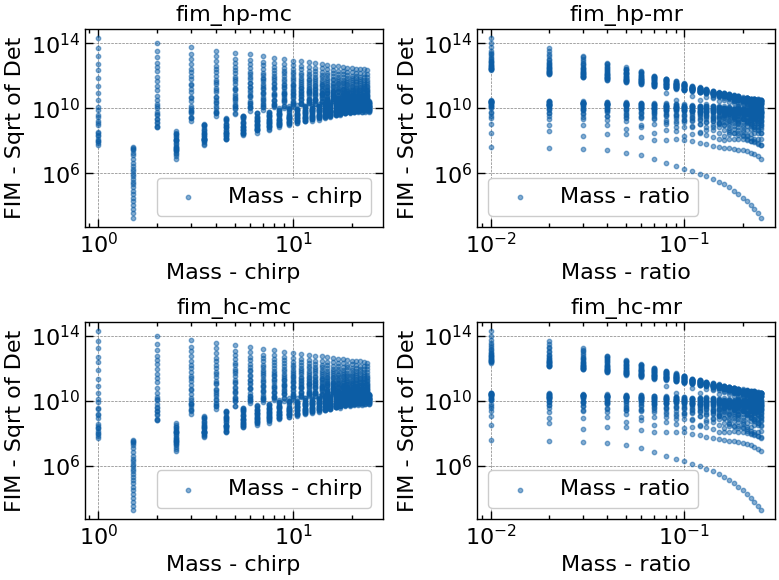
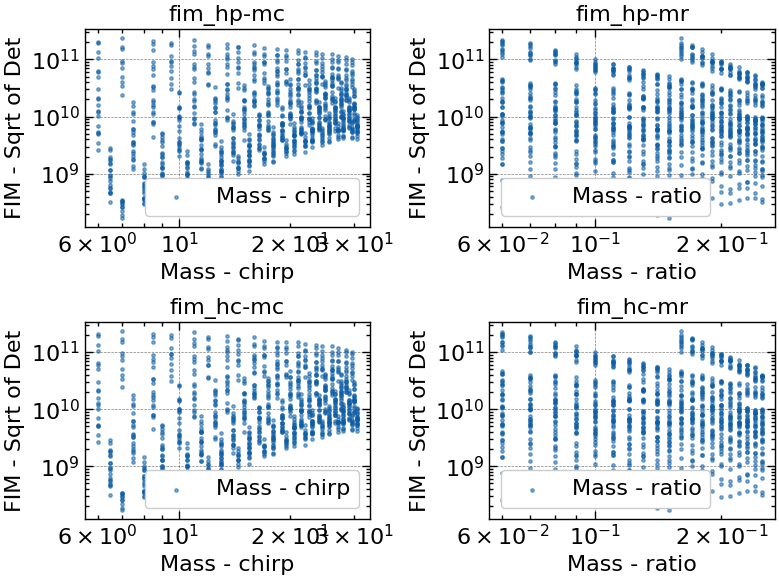
Script efficiency update - fig issue pending

Changed region(s): [[0.0308, 0.0, 1.0, 0.9931]]

diff --git a/main.py b/main.py
@@ -16,11 +16,14 @@ from data.gw_config import f_sig, f_psd, mc_repo, mr_repo, theta_repo
 # mc, mr, s1, s2, dist_mpc, c_time, c_phas, ang_inc, ang_pol
 mock_waveform_theta = jnp.array(
     [28.0956, 0.2471, 0.0, 0.0, 40.0, 0.0, 0.0, 0.0, 0.0])
-mock_theta = jnp.array([mock_waveform_theta])
+mock_theta = jnp.tile(mock_waveform_theta, (theta_repo.shape[0], 1))
 
+print(mc_repo.shape)
+print(mr_repo.shape)
+print(f"Total shape: {theta_repo.shape}")
 # %%
 # Section 1.b -  Mock GW data generate - waveform, grad, plots
-# t ~ 4min43.0s - first compile
+# t ~ 4min06.9s - first compile
 mock_hp, mock_hc = gw_ripple.waveform(mock_waveform_theta)
 mock_hp_grad, mock_hc_grad = gw_ripple.grad_plus(
     mock_theta)[0], gw_ripple.grad_cros(mock_theta)[0]
@@ -38,8 +41,7 @@ gw_plotter.bilby_plot(f_sig, f_psd)
 
 # %%
 # Section 2.a - GW data generation - mc, mr - grad, sqrt.det.fim, plots
-# t ~ 5min08.5s - shape(0150, 976, 9)
-# t ~ 5min08.5s - shape(1250, 976, 9)
+# t ~ 0.8s
 data_hp_grad_repo, data_hc_grad_repo = gw_ripple.grad_plus(
     theta_repo), gw_ripple.grad_cros(theta_repo)
 

diff --git a/data/gw_plotter.py b/data/gw_plotter.py
@@ -113,7 +113,7 @@ def bilby_plot(f_sig: jnp.ndarray, data: jnp.ndarray):
     # Plotter
     ax.plot(f_sig, data, label="H1 PSD", alpha=0.5)
     # Plot customization
-    ax.set(xlabel=f"{lbl_f}", ylabel=f"{lbl_h}", xscale='log')
+    ax.set(xlabel=f"{lbl_f}", ylabel=f"{lbl_h}", xscale='log', yscale='log')
     ax.legend()
     fig.tight_layout()
     # Plot admin
@@ -185,8 +185,8 @@ def fim_contour_plot(
     # Grid - mc, mr
     mc_grid, mr_grid = jnp.meshgrid(mc_repo, mr_repo, indexing='ij')
     # Plot data process
-    plotmat_hp = fim_hp_repo.reshape((mc_repo.shape[-1], mr_repo.shape[-1]))
-    plotmat_hc = fim_hc_repo.reshape((mc_repo.shape[-1], mr_repo.shape[-1]))
+    plotmat_hp = fim_hp_repo.reshape((mc_repo.shape[0], mr_repo.shape[0]))
+    plotmat_hc = fim_hc_repo.reshape((mc_repo.shape[0], mr_repo.shape[0]))
     # Plot init
     fig, (ax1, ax2) = plt.subplots(2, 1)
     # Plotter

diff --git a/data/gw_config.py b/data/gw_config.py
@@ -14,11 +14,11 @@ import bilby
 # Config setup
 # ============================================================ #
 # Frequency - min, max, step
-f_min, f_max, f_del = 24.0, 512.0, 0.5
+f_min, f_max, f_del = 24.0, 512.0, 0.50
 # Chirp mass - min, max, step
-mc_min, mc_max, mc_del = 1.0, 26.0, 0.5
+mc_min, mc_max, mc_del = 6.00, 31.0, 0.5
 # Mass ratio - min, max, step
-mr_min, mr_max, mr_del = 0.01, 0.26, 0.01
+mr_min, mr_max, mr_del = 0.06, 0.26, 0.01
 # Base theta - s1, s2, dist_mpc, c_time, c_phas, ang_inc, and_pol
 theta_base = jnp.array([0.0, 0.0, 40.0, 0.0, 0.0, 0.0, 0.0])
 # ============================================================ #

diff --git a/data/gw_fisher.py b/data/gw_fisher.py
@@ -10,18 +10,9 @@ import os
 # Package - jax
 import jax.numpy as jnp
 # Custom config import
-from data import gw_config
+from data.gw_config import f_diff, f_psd
 # XLA GPU resource setup
 os.environ['XLA_PYTHON_CLIENT_PREALLOCATE'] = 'false'
-
-# %%
-# Config import
-# Freq - signal, reference
-f_sig, f_ref = gw_config.f_sig, gw_config.f_ref
-# Freq - difference, sampling, duration
-f_diff, f_samp, f_dura = gw_config.f_diff, gw_config.f_samp, gw_config.f_dura
-# Freq - PSD
-f_psd = gw_config.f_psd
 
 # %%
 # FIM - inner prod

diff --git a/data/gw_ripple.py b/data/gw_ripple.py
@@ -13,14 +13,9 @@ import jax.numpy as jnp
 # Package - ripple
 from ripple.waveforms import IMRPhenomXAS
 # Custom config import
-from data import gw_config
+from data.gw_config import f_sig, f_ref
 # XLA GPU resource setup
 os.environ['XLA_PYTHON_CLIENT_PREALLOCATE'] = 'false'
-
-# %%
-# Config import
-# Freq - signal, reference
-f_sig, f_ref = gw_config.f_sig, gw_config.f_ref
 
 # %%
 # Ripple - waveform generator
